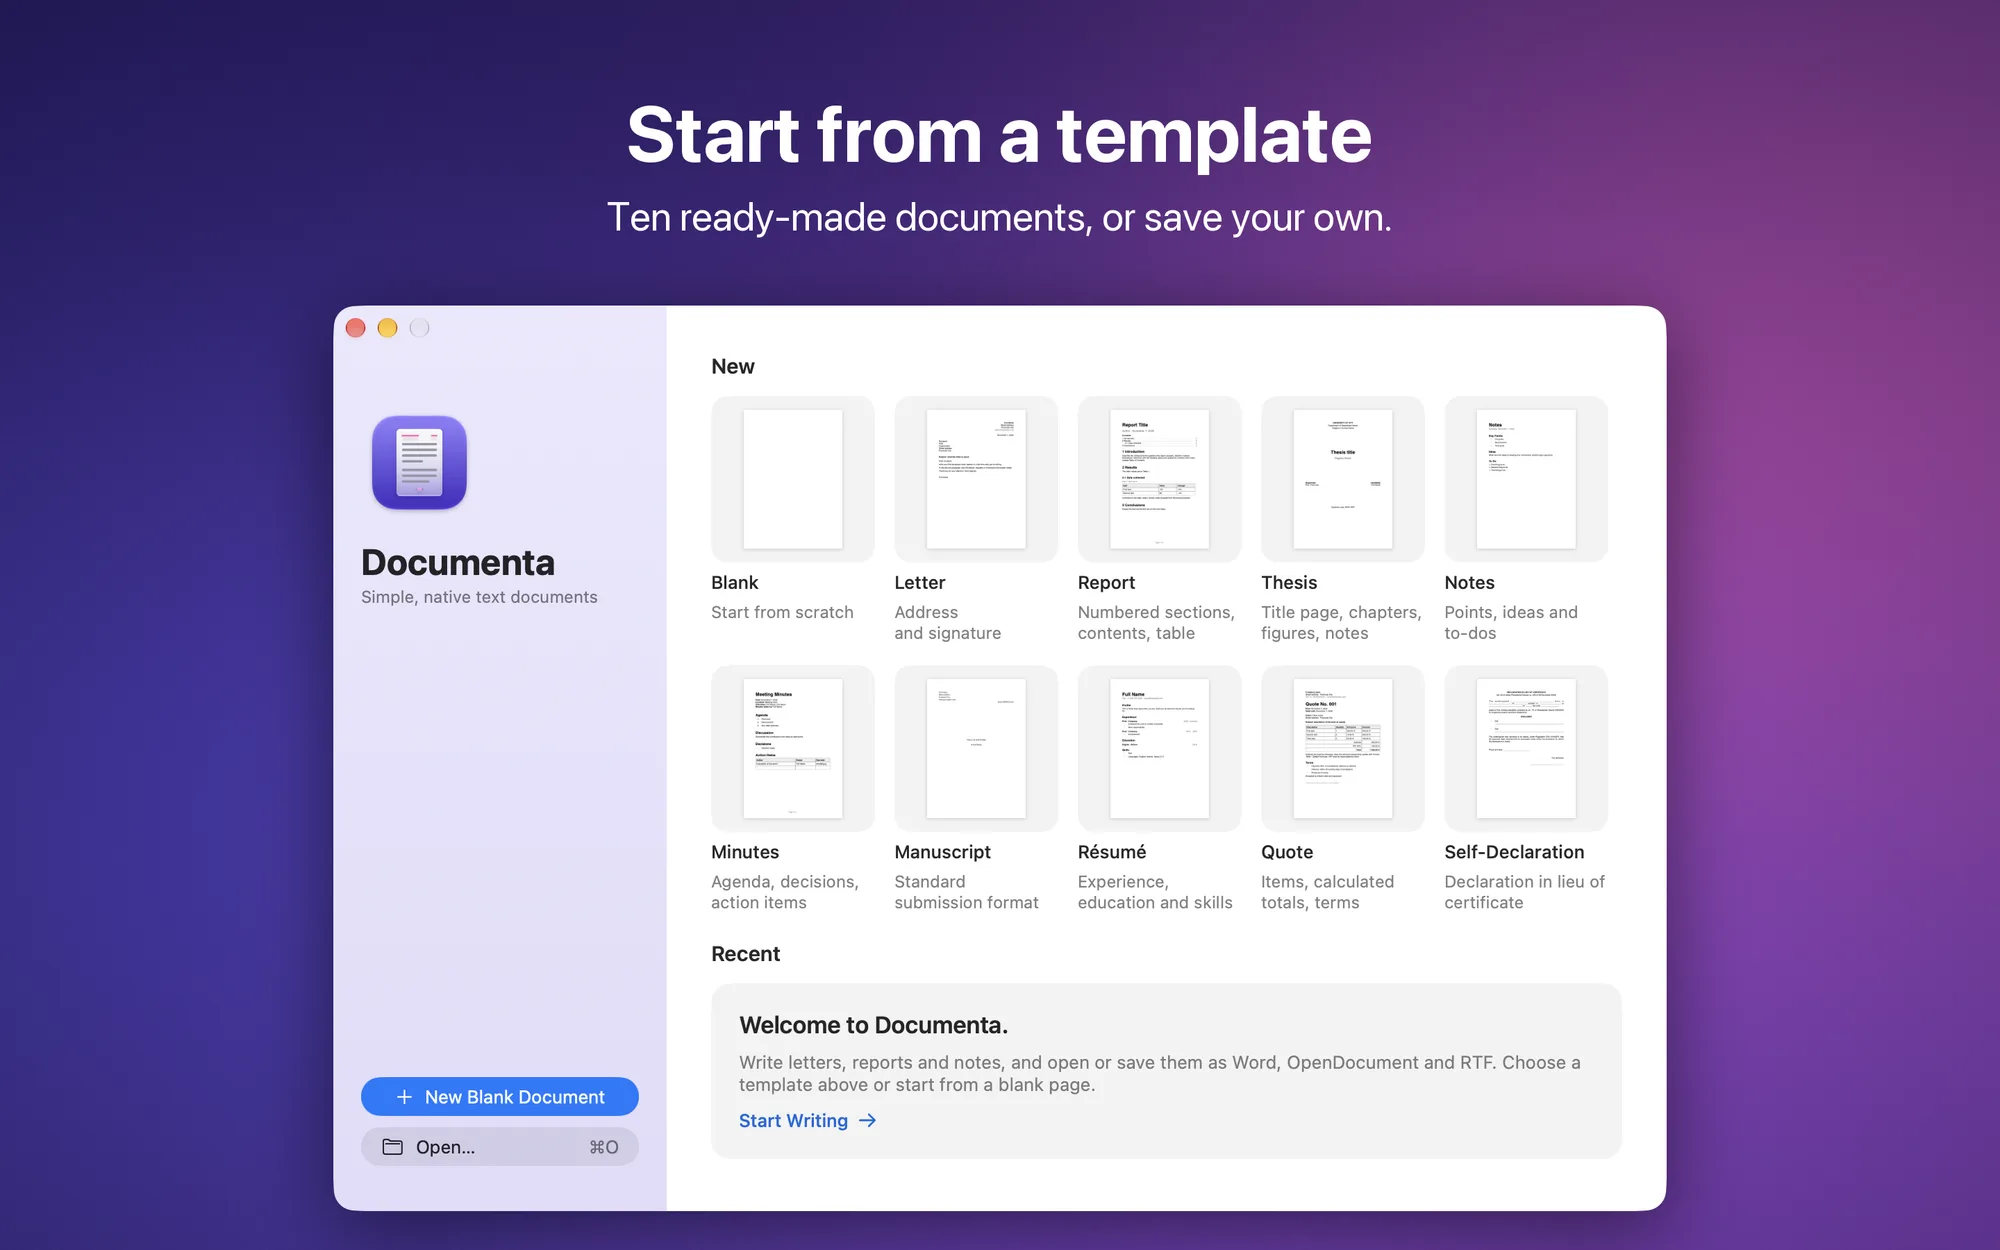
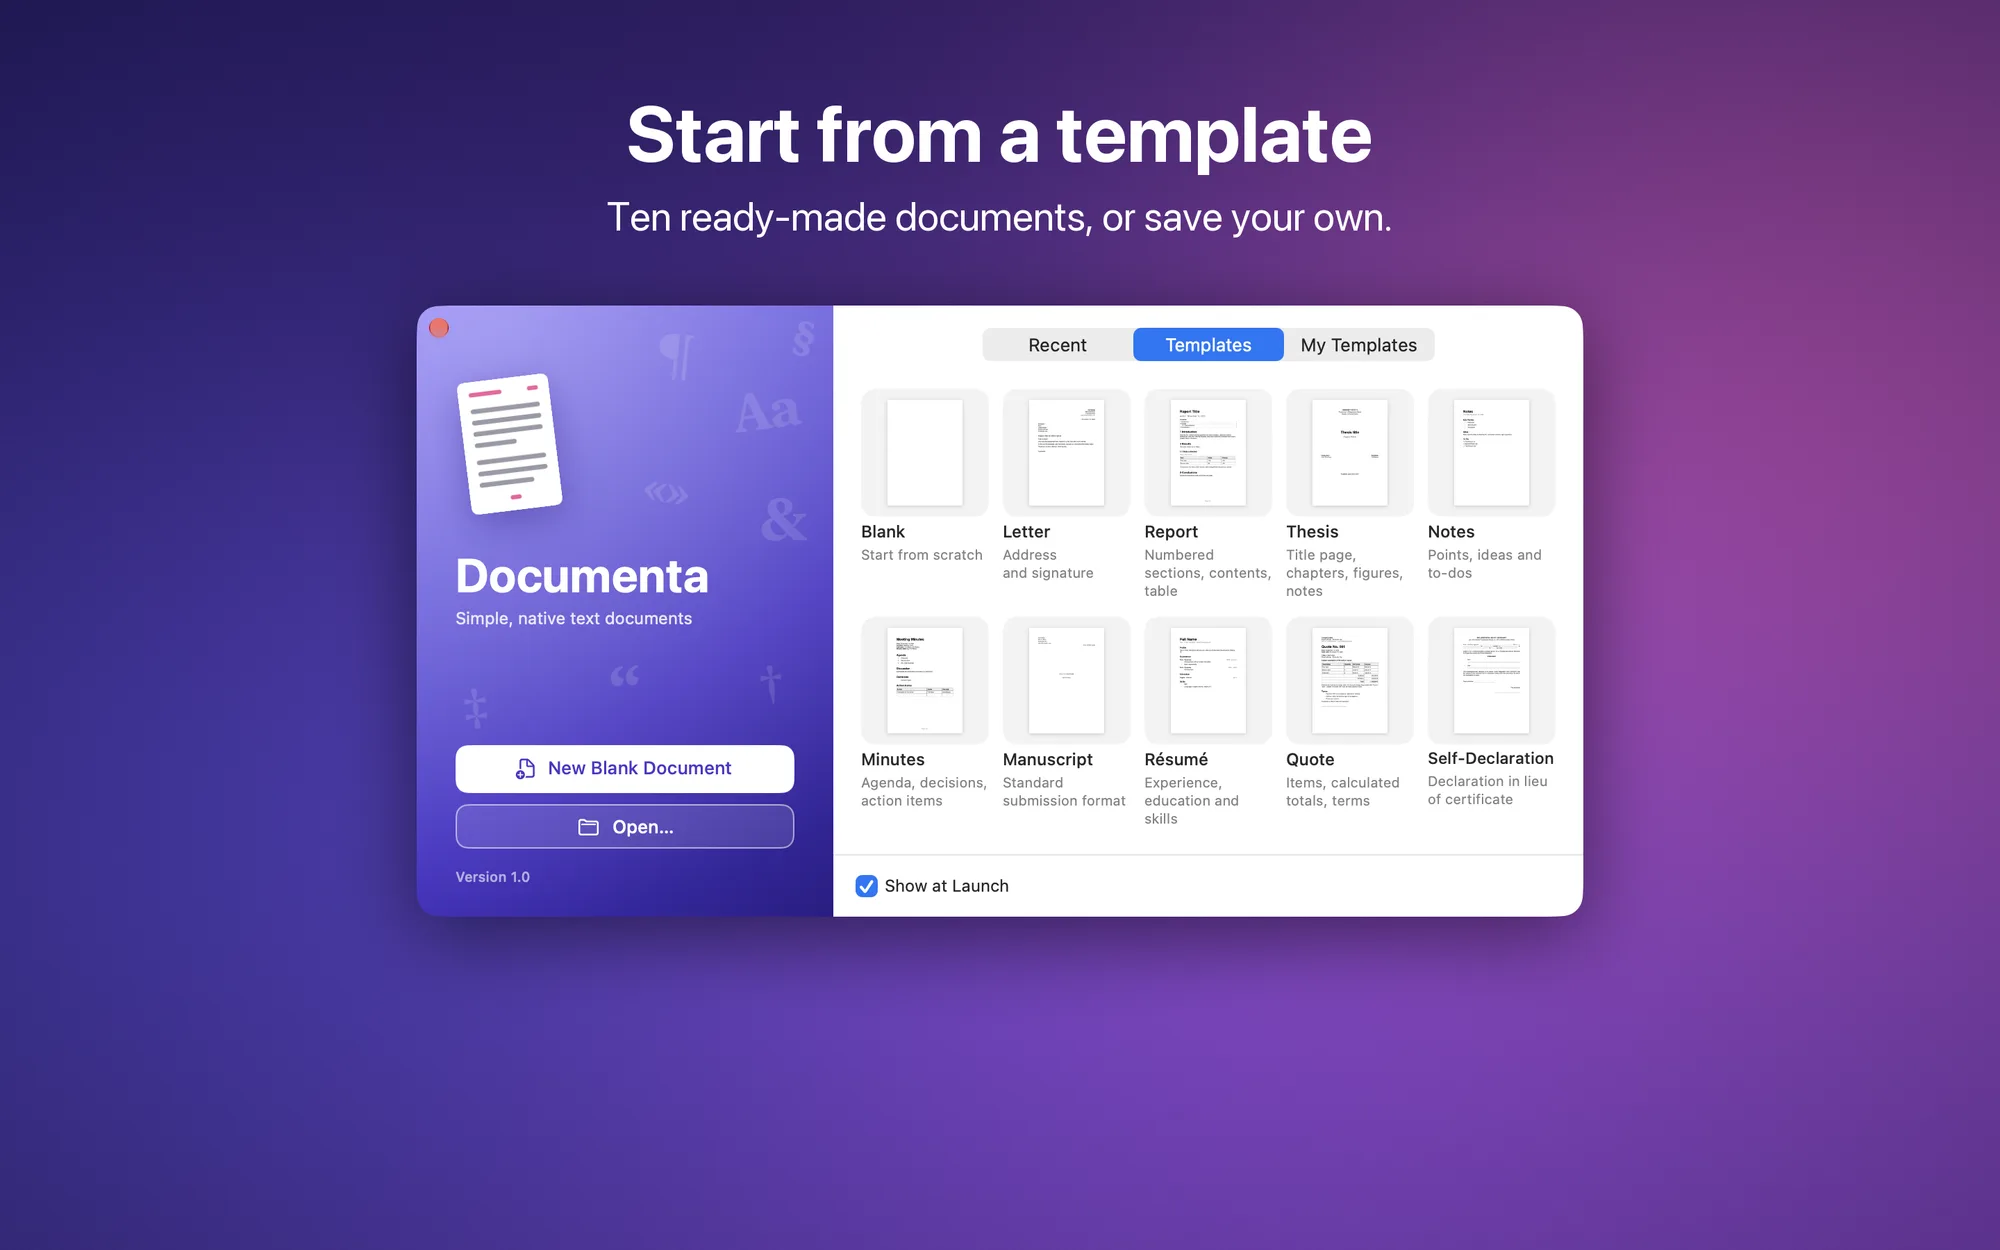
fix(documenta): app per Mac in vendita e modelli personali nella cartella scelta
Piattaforme con la versione per Mac disponibile; privacy e documentazione
dei modelli personali, che ora restano nella cartella scelta dall'utente;
screenshot del benvenuto aggiornato.

diff --git a/src/data/docs/documenta/modelli-esportazione-e-impostazioni.md b/src/data/docs/documenta/modelli-esportazione-e-impostazioni.md
@@ -27,7 +27,7 @@ I dieci modelli pronti:
 
 ## Modelli personali
 
-**Archivio › Salva come modello…** salva il documento aperto come modello, con testo, stili e impostazioni della pagina. I modelli personali compaiono nella finestra di benvenuto e in **Archivio › Nuovo da modello personale**; sono file DOCX nella cartella dei modelli dell'app (**Mostra cartella dei modelli**). In **Impostazioni › Modelli** si creano documenti, si rinominano e si spostano nel Cestino; i documenti già creati da un modello non cambiano.
+**Archivio › Salva come modello…** salva il documento aperto come modello, con testo, stili e impostazioni della pagina, in un file DOCX nella cartella che scegli tu. **Aggiungi modello…** (in **Archivio › Nuovo da modello personale** e in **Impostazioni › Modelli**) usa come modello un documento Word che hai già, lasciandolo dov'è: Documenta ricorda solo dove si trova. I modelli personali compaiono nella finestra di benvenuto e in **Archivio › Nuovo da modello personale**. In **Impostazioni › Modelli** si crea un documento da un modello (**Crea documento**), lo si trova nel Finder (**Mostra nel Finder**) o lo si toglie con **Rimuovi dall'elenco**, che non cancella il file; i documenti già creati da un modello non cambiano.
 
 ## Salvataggio
 

diff --git a/src/data/en/docs/documenta/templates-saving-and-settings.md b/src/data/en/docs/documenta/templates-saving-and-settings.md
@@ -27,7 +27,7 @@ The ten ready-made templates:
 
 ## Your own templates
 
-**File › Save as Template…** saves the open document as a template, with its text, styles and page setup. Your templates appear in the welcome window and in **File › New from My Template**; they are DOCX files in the app's templates folder (**Show Templates Folder**). In **Settings › Templates** you create documents from them, rename them and move them to the Trash; documents already created from a template don't change.
+**File › Save as Template…** saves the open document as a template, with its text, styles and page setup, in a DOCX file in the folder you choose. **Add Template…** (in **File › New from My Template** and in **Settings › Templates**) uses a Word document you already have as a template, leaving it where it is: Documenta only remembers where it is. Your templates appear in the welcome window and in **File › New from My Template**. In **Settings › Templates** you create a document from a template (**Create Document**), find it in Finder (**Show in Finder**) or remove it with **Remove from List**, which doesn't delete the file; documents already created from a template don't change.
 
 ## Saving
 

diff --git a/src/pages/progetti/documenta/privacy.md b/src/pages/progetti/documenta/privacy.md
@@ -33,8 +33,8 @@ dato personale.
   personali del testo, nome dell'autore di commenti e revisioni) nelle impostazioni dell'app.
 - **Dizionario personale**: le parole che aggiungi, nelle impostazioni dell'app sul Mac; vengono
   anche insegnate al correttore ortografico del sistema, che le tiene sul dispositivo.
-- **Modelli personali** (Mac): i documenti che salvi come modello, nella cartella Application
-  Support dell'app.
+- **Modelli personali** (Mac): i documenti che salvi o aggiungi come modello restano nella cartella
+  che scegli tu; l'app ricorda solo dove sono, nelle sue preferenze.
 - **Rapporti sulle prestazioni** (Mac): macOS consegna all'app, tramite MetricKit, rapporti anonimi
   su tempi di avvio, blocchi e arresti anomali. L'app li conserva per circa un mese nella cartella
   Application Support e non li invia a nessuno.

diff --git a/src/pages/en/projects/documenta/privacy.md b/src/pages/en/projects/documenta/privacy.md
@@ -33,8 +33,8 @@ data.
   replacements, the author name for comments and tracked changes) in the app settings.
 - **Personal dictionary**: the words you add, in the app settings on the Mac; they are also
   taught to the system spell checker, which keeps them on your device.
-- **Personal templates** (Mac): the documents you save as a template, in the app's Application
-  Support folder.
+- **Personal templates** (Mac): the documents you save or add as a template stay in the folder you
+  choose; the app only remembers where they are, in its preferences.
 - **Performance reports** (Mac): through MetricKit, macOS gives the app anonymous reports on launch
   times, hangs and crashes. The app keeps them for about a month in its Application Support folder
   and does not send them to anyone.

diff --git a/src/data/projects/documenta.md b/src/data/projects/documenta.md
@@ -38,4 +38,4 @@ Documenta è un elaboratore di testi per Mac, iPhone e iPad. Scrivi su pagine im
 
 ## Piattaforme
 
-Disponibile sull'App Store per **iPhone** e **iPad** con iOS e iPadOS 26 o successivo. La versione per **Mac**, con chip Apple (Apple silicon) e macOS 15 Sequoia o successivo, è in revisione e arriverà nella stessa pagina dello store.
+Disponibile sull'App Store per **Mac** con chip Apple (Apple silicon) e macOS 15 Sequoia o successivo, e per **iPhone** e **iPad** con iOS e iPadOS 26 o successivo. Un solo download gratuito vale su tutti i dispositivi.

diff --git a/src/data/en/projects/documenta.md b/src/data/en/projects/documenta.md
@@ -38,4 +38,4 @@ Documenta is a word processor for Mac, iPhone and iPad. Write on pages laid out 
 
 ## Platforms
 
-Available on the App Store for **iPhone** and **iPad** with iOS and iPadOS 26 or later. The **Mac** version, for Apple silicon and macOS 15 Sequoia or later, is in review and will arrive on the same App Store page.
+Available on the App Store for **Mac** with Apple silicon and macOS 15 Sequoia or later, and for **iPhone** and **iPad** with iOS and iPadOS 26 or later. One free download works on all your devices.
